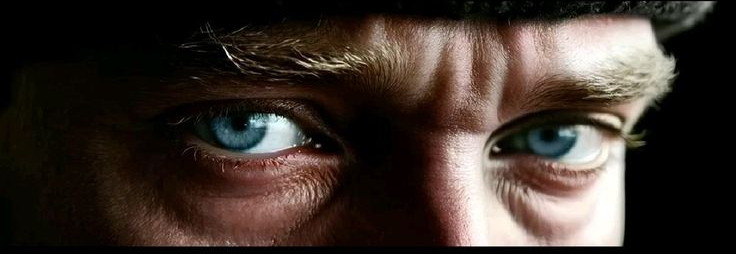
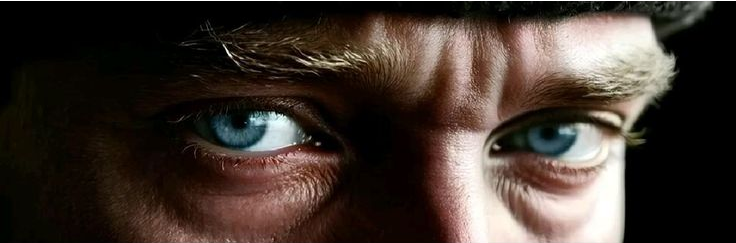
Atatürk 3

diff --git a/out/html/game.css b/out/html/game.css
@@ -2105,3 +2105,80 @@ h1,h2,h3,h4,h5,h6,button,input,select,textarea{font-family:inherit}
     letter-spacing: 0.01em;
   }
 }
+
+/* ANATOLIAN DAWN — TITLE NEW IMAGE + STRONGER GLOW v5
+   Keeps the connected header, but moves the supplied eyes image INSIDE the
+   Anatolian Dawn ribbon as its background while preserving the mod's own
+   typography, borders and navigation strip. */
+#mid_panel > header.ad-command-header .ad-title-ribbon {
+  display: flex;
+  align-items: center;
+  box-sizing: border-box;
+  position: relative;
+  padding: 0 22px 0 16px;
+  margin-bottom: -2px;
+  background: var(--content-bg-color);
+  clip-path: polygon(0 0, 94.5% 0, 100% 100%, 0 100%);
+  isolation: isolate;
+  overflow: hidden;
+}
+#mid_panel > header.ad-command-header .ad-title-ribbon::before {
+  content: none;
+}
+#mid_panel > header.ad-command-header .ad-title-ribbon .ad-ribbon-vector {
+  position: absolute;
+  inset: 0;
+  z-index: 1;
+  display: block;
+  width: 100%;
+  height: 100%;
+  overflow: visible;
+  pointer-events: none;
+}
+#mid_panel > header.ad-command-header .ad-title-ribbon .ad-ribbon-vector path {
+  fill: none;
+  stroke: #888;
+  stroke-width: 2;
+  stroke-linejoin: round;
+  vector-effect: non-scaling-stroke;
+}
+#mid_panel > header.ad-command-header .ad-credit-ribbon {
+  min-height: 42px;
+  z-index: 4;
+}
+#mid_panel > header.ad-command-header .ad-game-ribbon {
+  min-height: 39px;
+  z-index: 3;
+  background-image:
+    linear-gradient(90deg, rgba(0,0,0,.38) 0%, rgba(0,0,0,.22) 34%, rgba(0,0,0,.44) 100%),
+    url('img/anatolian-dawn-eyes.png');
+  background-size: cover;
+  background-position: center 44%;
+  background-repeat: no-repeat;
+}
+#mid_panel > header.ad-command-header #game-title,
+#mid_panel > header.ad-command-header #game-author {
+  position: relative;
+  z-index: 2;
+  font-family: inherit;
+}
+#mid_panel > header.ad-command-header #game-title {
+  color: #fff;
+  font-size: 1.58em;
+  font-weight: 600;
+  letter-spacing: 0.06em;
+  text-shadow: 0 0 2px rgba(255,255,255,.34), 0 0 8px rgba(255,255,255,.22), 0 0 14px rgba(255,255,255,.10);
+}
+#mid_panel > header.ad-command-header #game-author {
+  color: var(--text-color);
+}
+#mid_panel > header.ad-command-header #game-author::before { content: none; }
+@media (max-width: 560px) {
+  #mid_panel > header.ad-command-header .ad-title-ribbon {
+    padding-left: 12px;
+    padding-right: 17px;
+  }
+  #mid_panel > header.ad-command-header .ad-credit-ribbon { min-height: 39px; }
+  #mid_panel > header.ad-command-header .ad-game-ribbon { min-height: 36px; }
+  #mid_panel > header.ad-command-header #game-title { font-size: 1.22em; }
+}

diff --git a/out/html/index.html b/out/html/index.html
@@ -7,7 +7,7 @@
         property="ifiction:ifid" content="7FCDF039-2B77-4179-B795-CBAFA65253AA">
     <title>Anatolian Dawn - Egehan</title>
     <link rel="icon" type="image/jpeg" href="img/chp5_20251125_200815_0000.svg">
-    <link rel="stylesheet" type="text/css" href="game.css?v=69c83607790f">
+    <link rel="stylesheet" type="text/css" href="game.css?v=9deffa72783d">
     <script src="jquery-1.11.1.min.js"></script>
     <script src="d3.v7.min.js"></script>
     <script src="d3-parliament.js?v=seat-outlines-20261006-1"></script>
